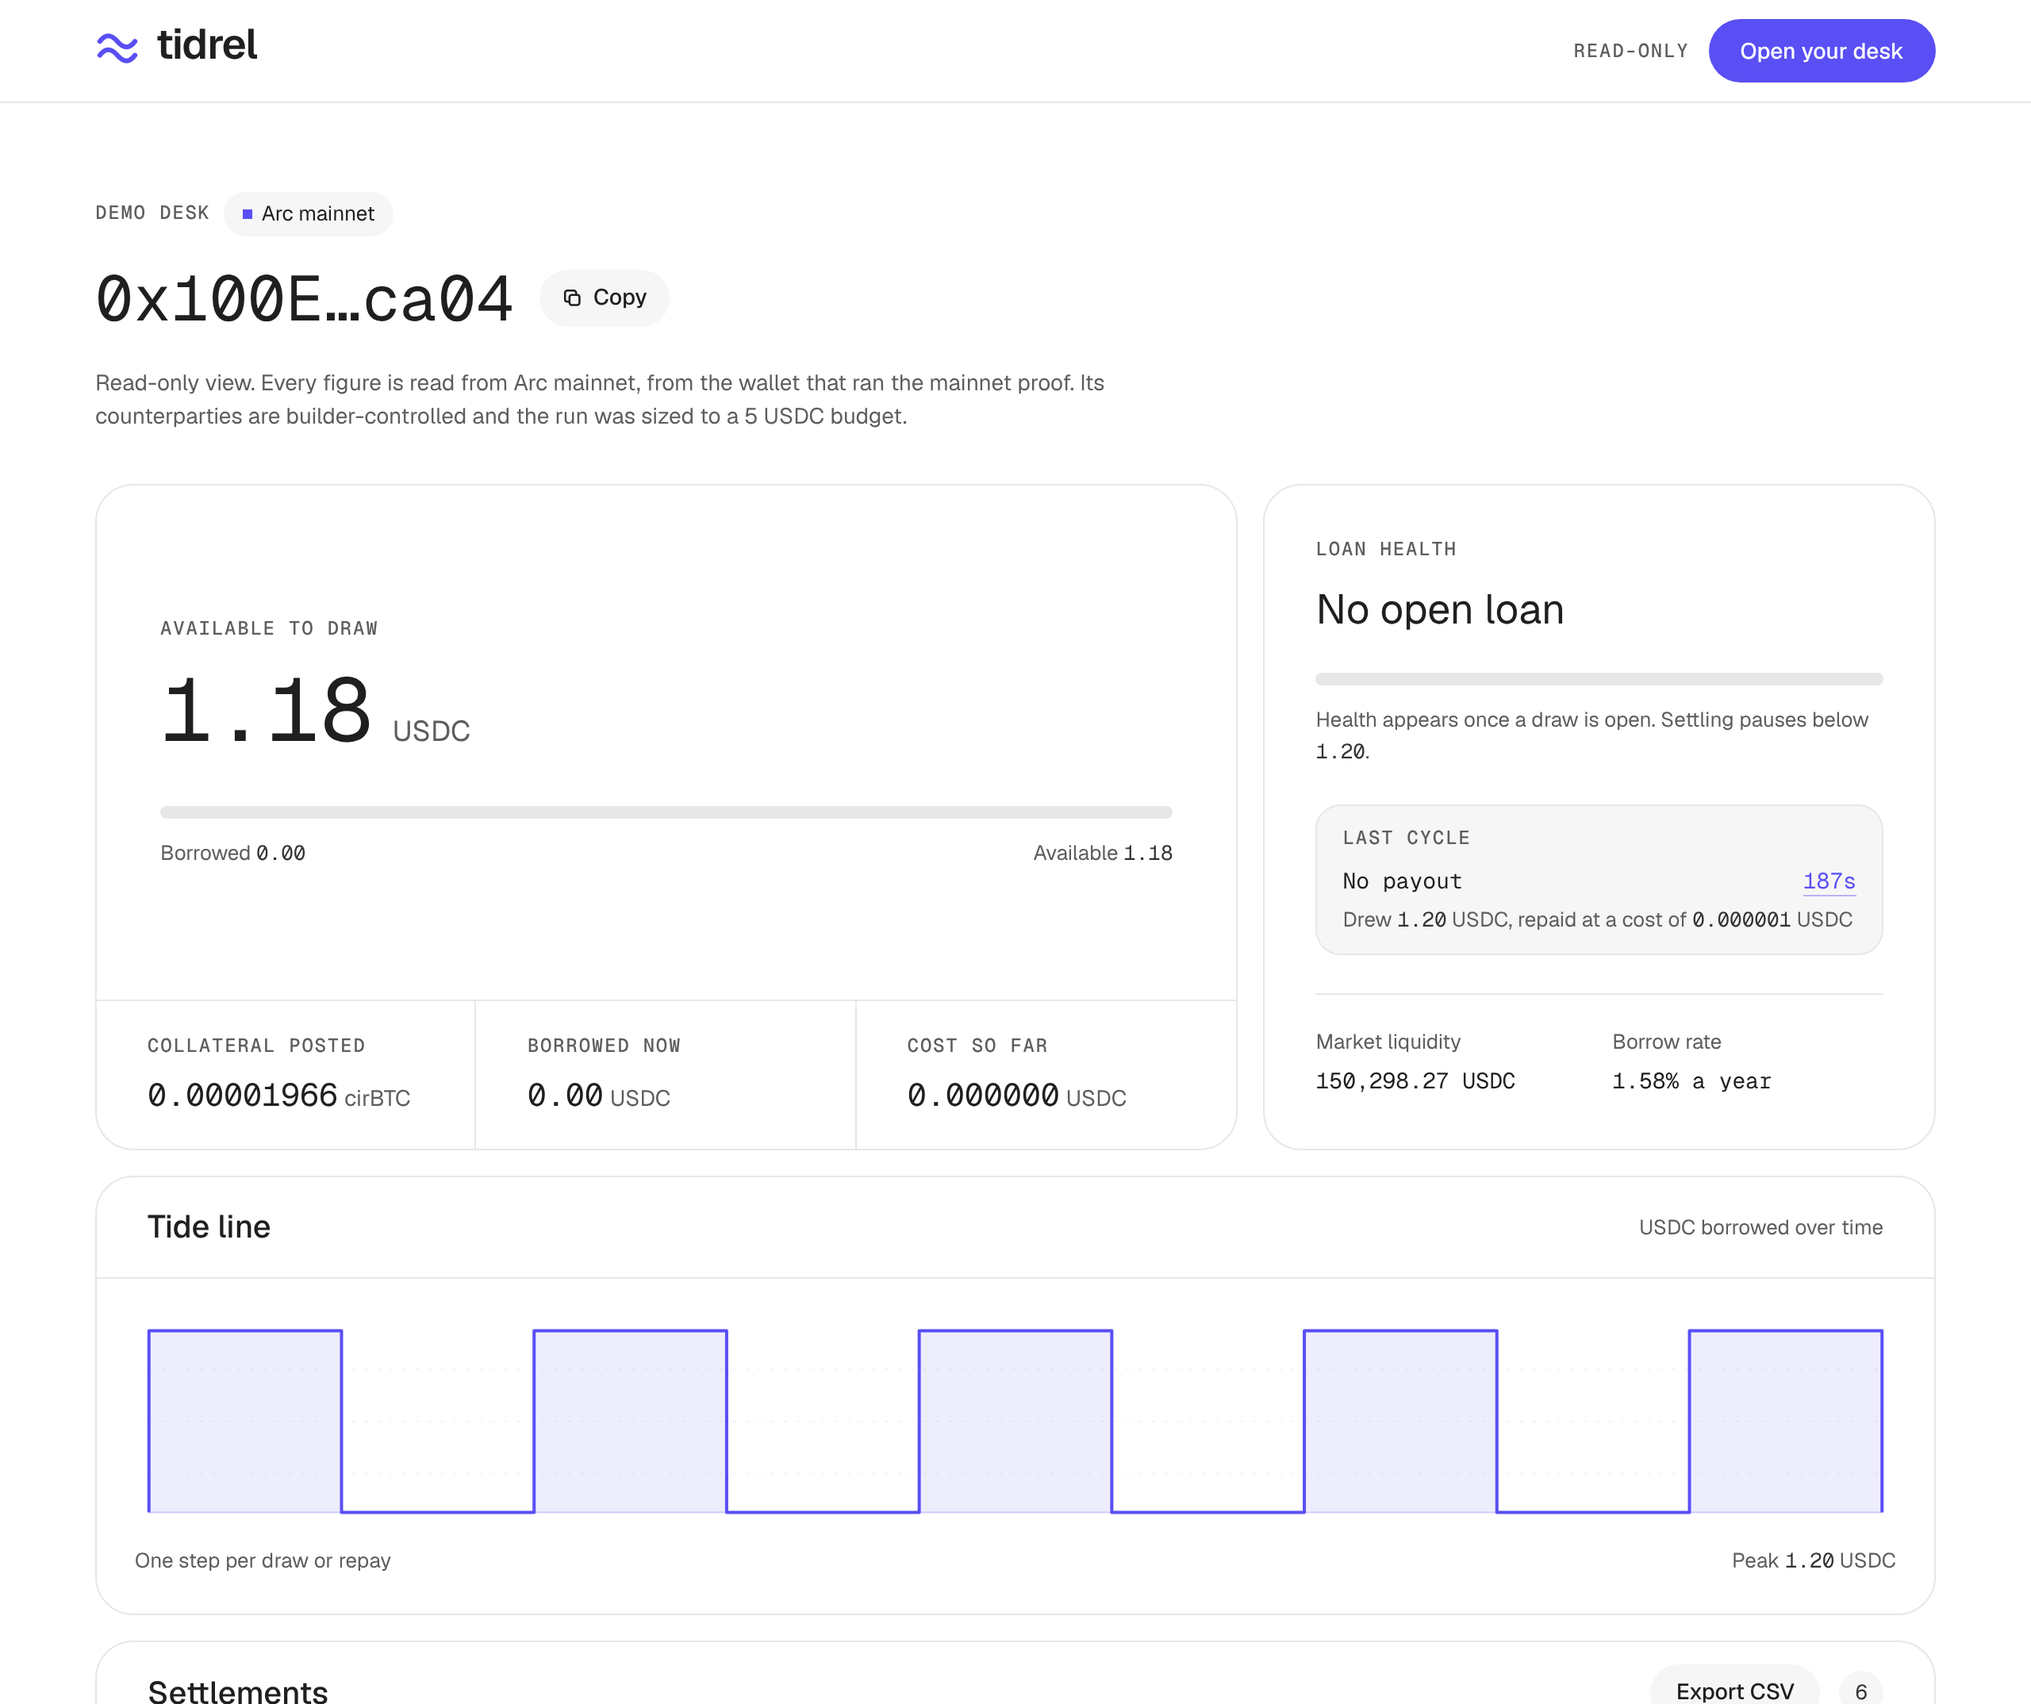
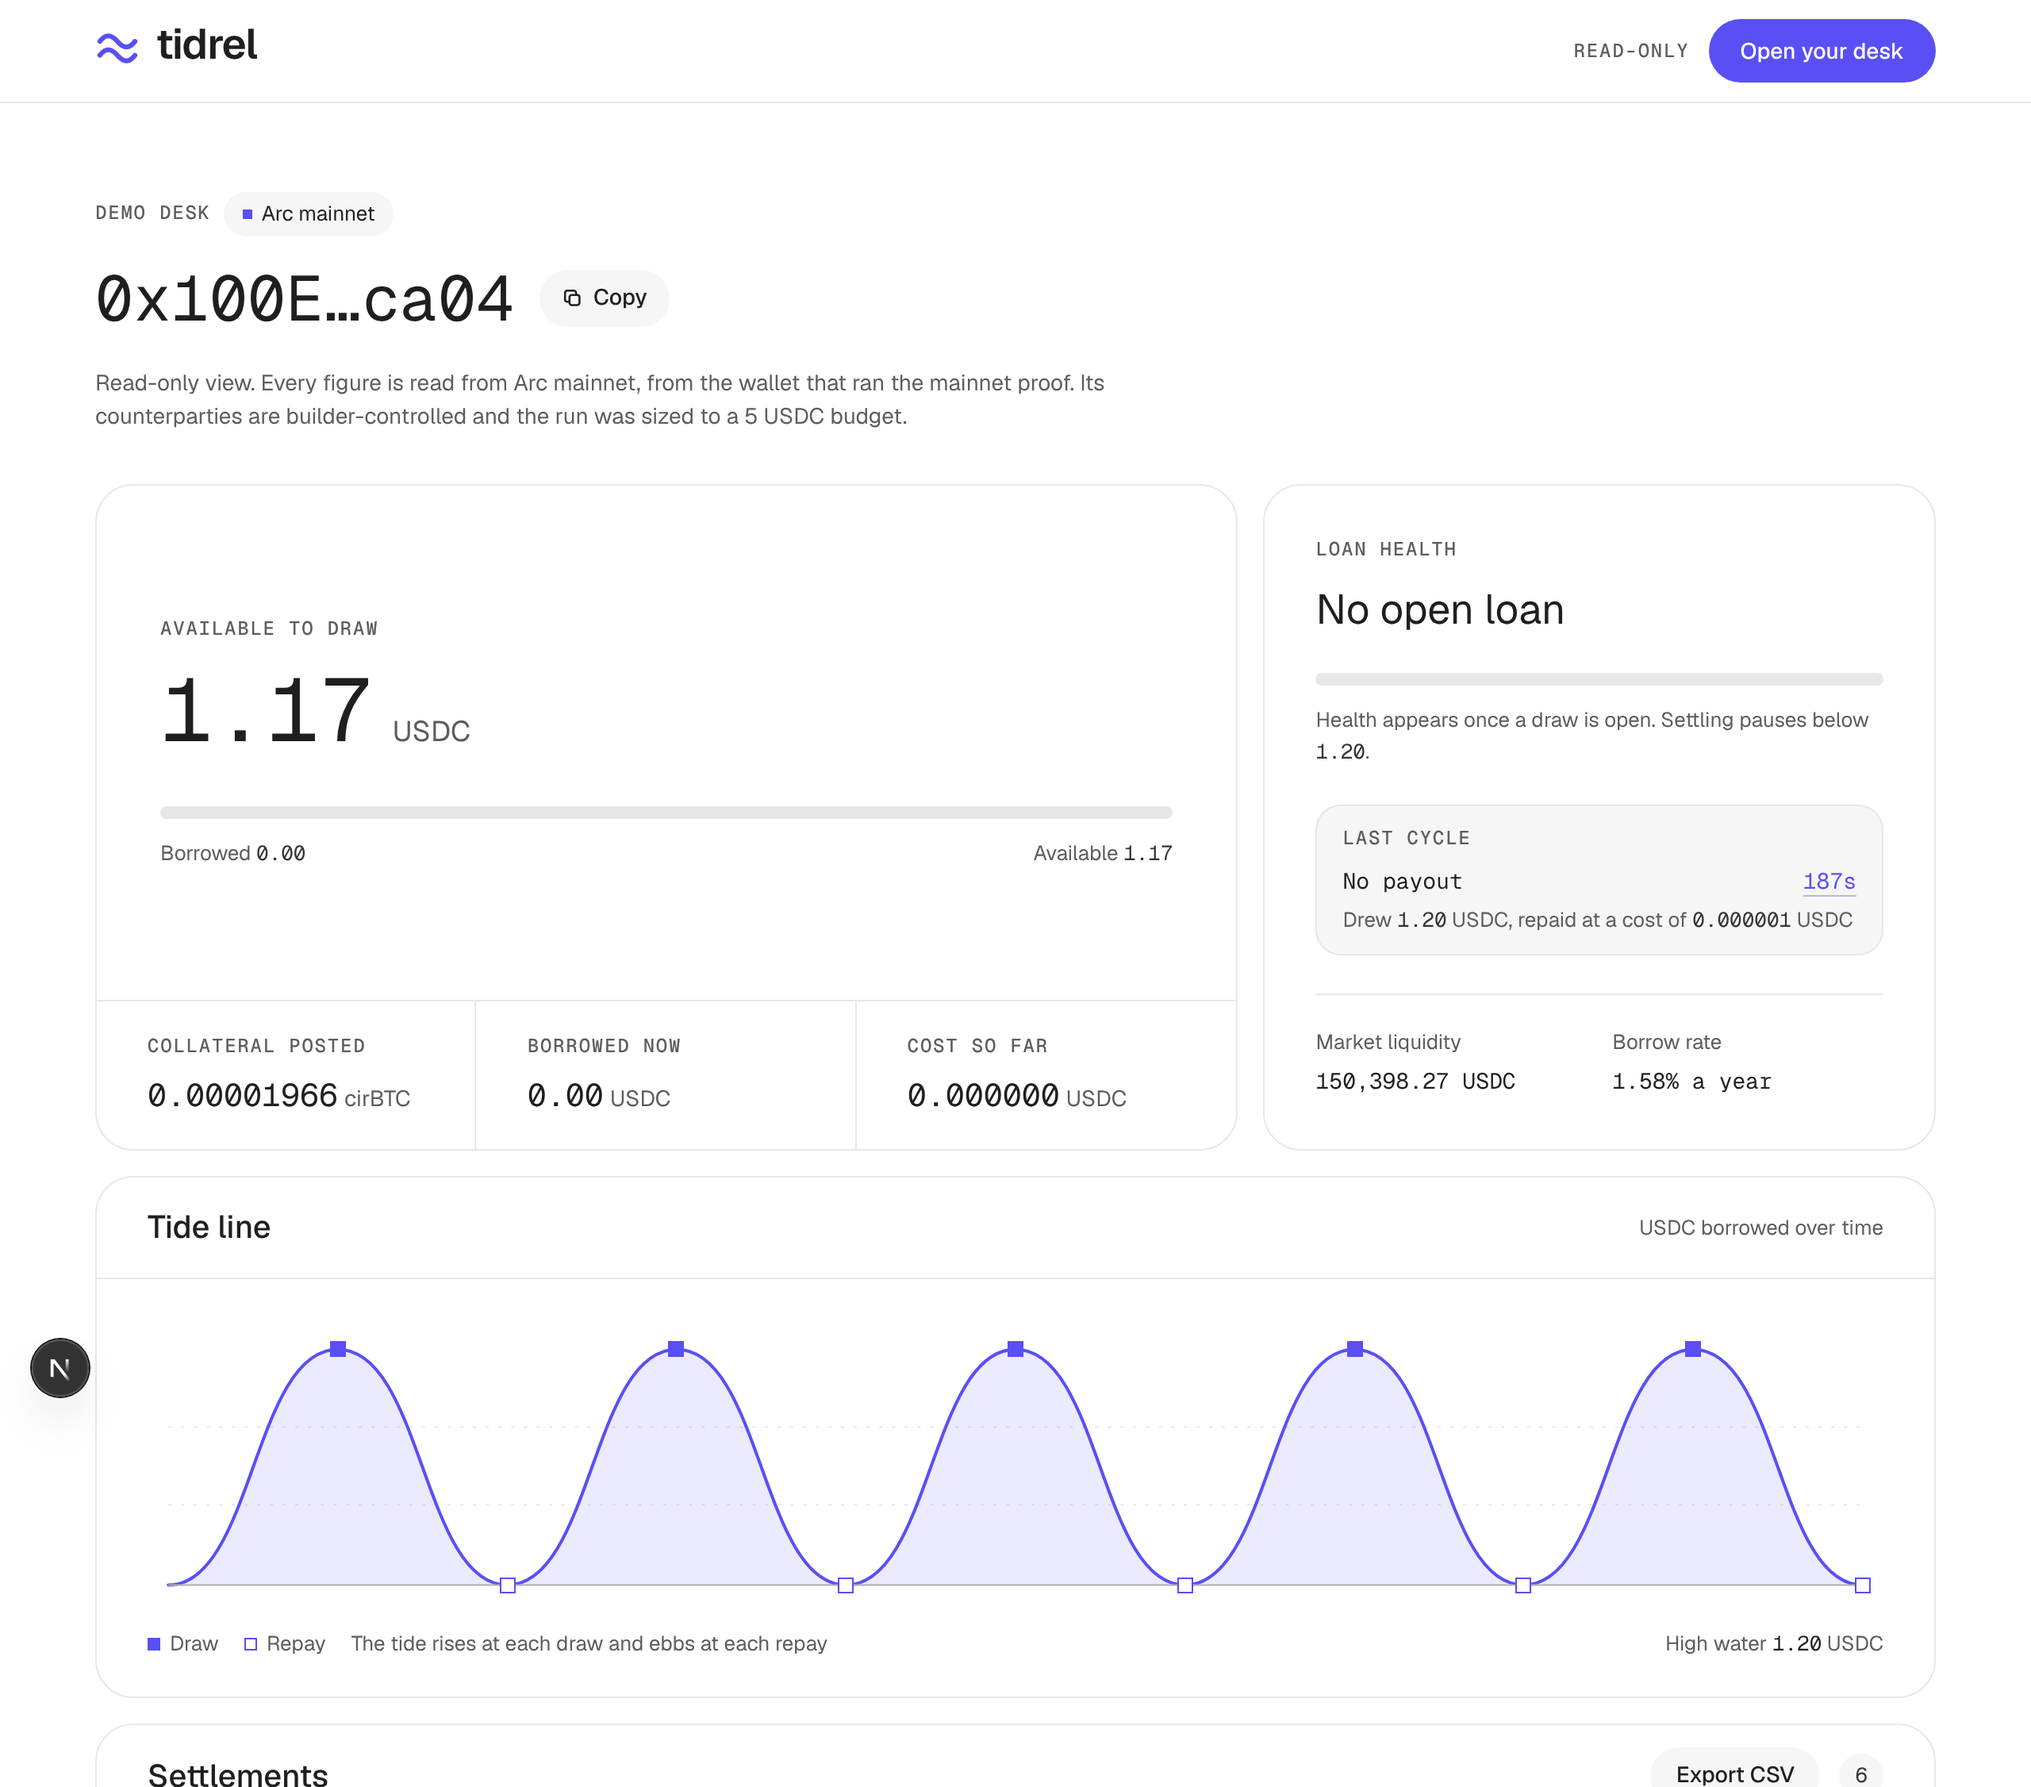
Draw the tide line as a rolling tide instead of steps
Each draw now swells into a crest at the amount borrowed and each repay ebbs
back to low water, with an S-curve between events that passes through every
real value. Square markers on each crest and trough link to the draw or repay
on Arc mainnet. The README capture is regenerated.

diff --git a/src/components/TideLine.tsx b/src/components/TideLine.tsx
@@ -1,14 +1,19 @@
+import { explorerTx } from "@/lib/chain";
 import type { Settlement } from "@/lib/history";
 import { tidePoints } from "@/lib/tide";
 import { formatDurationWords, formatUsdc } from "@/lib/format";
 
 const W = 1000;
-const H = 120;
-const PAD = 8;
+const H = 160;
+const PAD_X = 12;
+const PAD_TOP = 18;
+const PAD_BOTTOM = 10;
 
 /**
- * Principal outstanding over time, from real draws and repays. It needs two points
- * before it shows a line, because one point is not a line.
+ * Principal outstanding over time, drawn as a tide: each draw is a swell that rises to
+ * the amount borrowed, each repay ebbs back. The curve passes through every real value
+ * and only eases between them. It needs two events before it shows, because one point
+ * is not a tide.
  */
 export function TideLine({ settlements }: { settlements: Settlement[] }) {
   const pts = tidePoints(settlements);
@@ -22,38 +27,93 @@ export function TideLine({ settlements }: { settlements: Settlement[] }) {
 
   const span = pts[pts.length - 1].t - pts[0].t;
   const max = Math.max(...pts.map((p) => Number(p.debtUsdc)), 1e-9);
-  // One step per event, evenly spaced. Cycles are minutes apart and the gaps between
-  // them are hours, so a time axis would squash every loan into a hairline.
-  const x = (i: number) => PAD + (i / (pts.length - 1)) * (W - PAD * 2);
-  const y = (v: number) => H - PAD - (v / max) * (H - PAD * 2);
+  // The water starts at low tide, then one position per event, evenly spaced. Cycles
+  // are minutes apart and the gaps between them are hours, so a time axis would squash
+  // every loan into a sliver.
+  const levels = [0, ...pts.map((p) => Number(p.debtUsdc))];
+  const x = (i: number) => PAD_X + (i / (levels.length - 1)) * (W - PAD_X * 2);
+  const y = (v: number) => H - PAD_BOTTOM - (v / max) * (H - PAD_TOP - PAD_BOTTOM);
+  const floor = y(0);
 
-  // Debt holds its level until the next event, so the line steps rather than slopes.
-  let d = `M ${x(0)} ${y(0)}`;
-  let prev = 0;
-  pts.forEach((p, i) => {
-    d += ` L ${x(i)} ${y(prev)} L ${x(i)} ${y(Number(p.debtUsdc))}`;
-    prev = Number(p.debtUsdc);
-  });
+  // Each stretch between two events is an S-curve with flat ends, so the water swells
+  // into a crest and settles at each level instead of jumping to it.
+  let d = `M ${x(0)} ${y(levels[0])}`;
+  for (let i = 1; i < levels.length; i++) {
+    const x0 = x(i - 1);
+    const x1 = x(i);
+    const mid = (x1 - x0) / 2;
+    d += ` C ${x0 + mid} ${y(levels[i - 1])} ${x1 - mid} ${y(levels[i])} ${x1} ${y(levels[i])}`;
+  }
 
   return (
-    <figure className="px-6 py-6">
-      <svg
-        viewBox={`0 0 ${W} ${H}`}
-        preserveAspectRatio="none"
-        className="h-[132px] w-full text-violet"
-        role="img"
-        aria-label={`Principal outstanding across ${pts.length} draws and repays across ${formatDurationWords(span)}`}
-      >
-        {[0.25, 0.5, 0.75].map((f) => (
-          <line key={f} x1={PAD} x2={W - PAD} y1={H * f} y2={H * f} stroke="currentColor" strokeOpacity="0.07" strokeDasharray="2 6" vectorEffect="non-scaling-stroke" />
+    <figure className="px-6 py-6 md:px-8">
+      <div className="relative">
+        <svg
+          viewBox={`0 0 ${W} ${H}`}
+          preserveAspectRatio="none"
+          className="h-[110px] w-full text-violet sm:h-[180px]"
+          role="img"
+          aria-label={`Principal outstanding across ${pts.length} draws and repays over ${formatDurationWords(span)}, peaking at ${formatUsdc(String(max), 2)} USDC`}
+        >
+          {[0.33, 0.66].map((f) => (
+            <line
+              key={f}
+              x1={PAD_X}
+              x2={W - PAD_X}
+              y1={PAD_TOP + (floor - PAD_TOP) * f}
+              y2={PAD_TOP + (floor - PAD_TOP) * f}
+              stroke="var(--color-mist)"
+              strokeDasharray="2 6"
+              vectorEffect="non-scaling-stroke"
+            />
+          ))}
+          <path d={`${d} L ${x(levels.length - 1)} ${floor} L ${x(0)} ${floor} Z`} fill="currentColor" fillOpacity="0.12" />
+          <path
+            d={d}
+            fill="none"
+            stroke="currentColor"
+            strokeWidth="2"
+            strokeLinecap="round"
+            strokeLinejoin="round"
+            vectorEffect="non-scaling-stroke"
+          />
+          <line x1={PAD_X} x2={W - PAD_X} y1={floor} y2={floor} stroke="var(--color-ash)" vectorEffect="non-scaling-stroke" />
+        </svg>
+
+        {/* One marker per event, placed in HTML so it stays square at any width. */}
+        {pts.map((p, i) => (
+          <a
+            key={p.txHash + p.kind}
+            href={explorerTx(p.txHash)}
+            target="_blank"
+            rel="noopener noreferrer"
+            aria-label={`${p.kind === "draw" ? "Draw" : "Repay"} on Arc mainnet, ${formatUsdc(p.debtUsdc, 2)} USDC outstanding after it`}
+            title={`${p.kind === "draw" ? "Draw" : "Repay"}, ${formatUsdc(p.debtUsdc, 2)} USDC outstanding`}
+            className={`absolute h-2.5 w-2.5 -translate-x-1/2 -translate-y-1/2 transition-transform hover:scale-150 ${
+              p.kind === "draw" ? "bg-violet" : "border border-violet bg-porcelain"
+            }`}
+            style={{
+              left: `${(x(i + 1) / W) * 100}%`,
+              top: `${(y(levels[i + 1]) / H) * 100}%`,
+            }}
+          />
         ))}
-        <line x1={PAD} x2={W - PAD} y1={y(0)} y2={y(0)} stroke="currentColor" strokeOpacity="0.25" vectorEffect="non-scaling-stroke" />
-        <path d={`${d} L ${x(pts.length - 1)} ${y(0)} Z`} fill="currentColor" fillOpacity="0.1" />
-        <path d={d} fill="none" stroke="currentColor" strokeWidth="2" strokeLinejoin="round" vectorEffect="non-scaling-stroke" />
-      </svg>
-      <figcaption className="mt-3 flex justify-between text-caption text-slate">
-        <span>One step per draw or repay</span>
-        <span>Peak <span className="num text-graphite">{formatUsdc(String(max), 2)}</span> USDC</span>
+      </div>
+      <figcaption className="mt-4 flex flex-wrap justify-between gap-x-6 gap-y-2 text-caption text-slate">
+        <span className="flex items-center gap-4">
+          <span className="inline-flex items-center gap-1.5">
+            <span className="h-2 w-2 bg-violet" aria-hidden="true" />
+            Draw
+          </span>
+          <span className="inline-flex items-center gap-1.5">
+            <span className="h-2 w-2 border border-violet bg-porcelain" aria-hidden="true" />
+            Repay
+          </span>
+          <span>The tide rises at each draw and ebbs at each repay</span>
+        </span>
+        <span>
+          High water <span className="num text-ink">{formatUsdc(String(max), 2)}</span> USDC
+        </span>
       </figcaption>
     </figure>
   );
